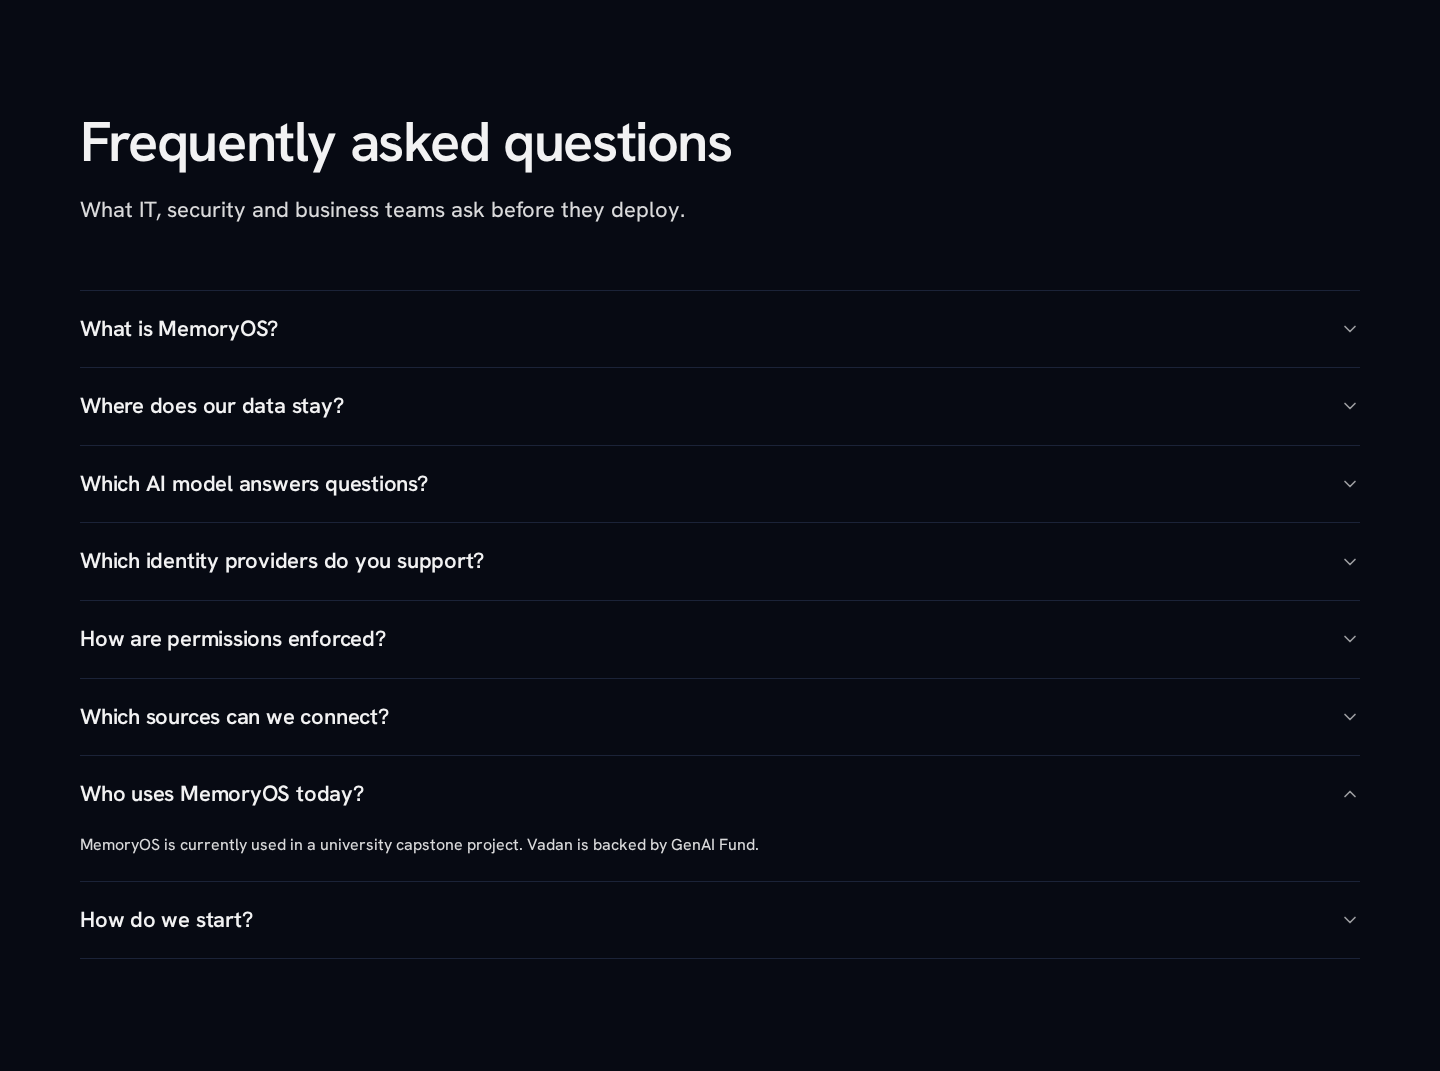
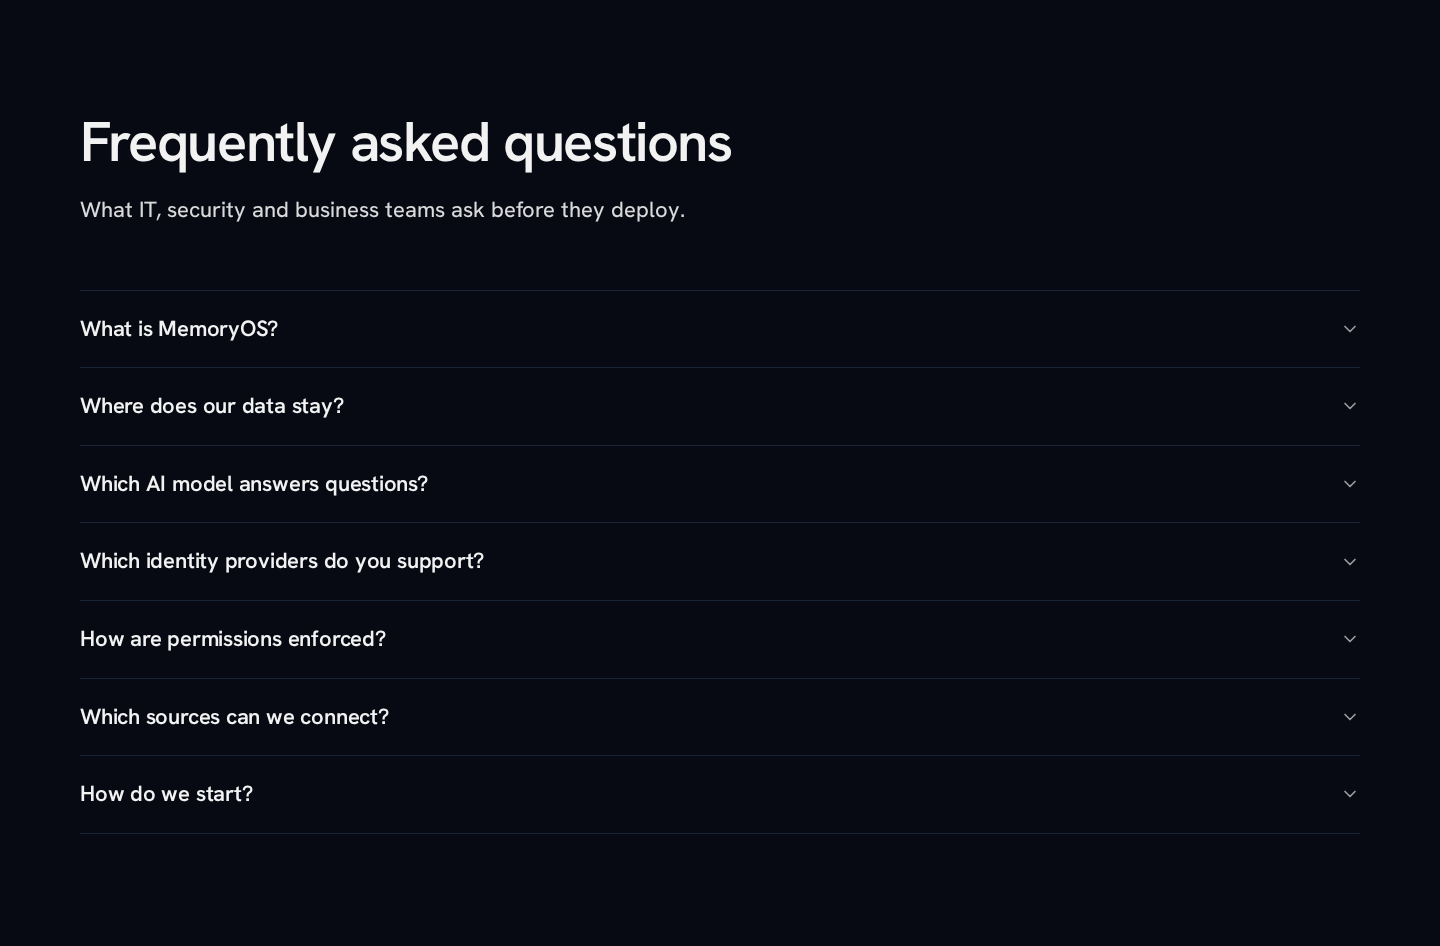
fix(landing): remove customer-use FAQ

diff --git a/landing/src/content.ts b/landing/src/content.ts
@@ -324,11 +324,6 @@ const faq: SectionIntro & { items: readonly { question: string; answer: string }
         "Google Workspace, Microsoft 365, Slack, Confluence, Notion, Jira, Salesforce, HubSpot, GitHub, cloud storage, email, databases and REST APIs, plus file uploads. MemoryOS indexes every common document format, including scanned files.",
     },
     {
-      question: "Who uses MemoryOS today?",
-      answer:
-        "MemoryOS is currently used in a university capstone project. Vadan is backed by GenAI Fund.",
-    },
-    {
       question: "How do we start?",
       answer:
         "Email info@vadan.app. We scope a deployment around your systems, identity provider and first use cases.",
